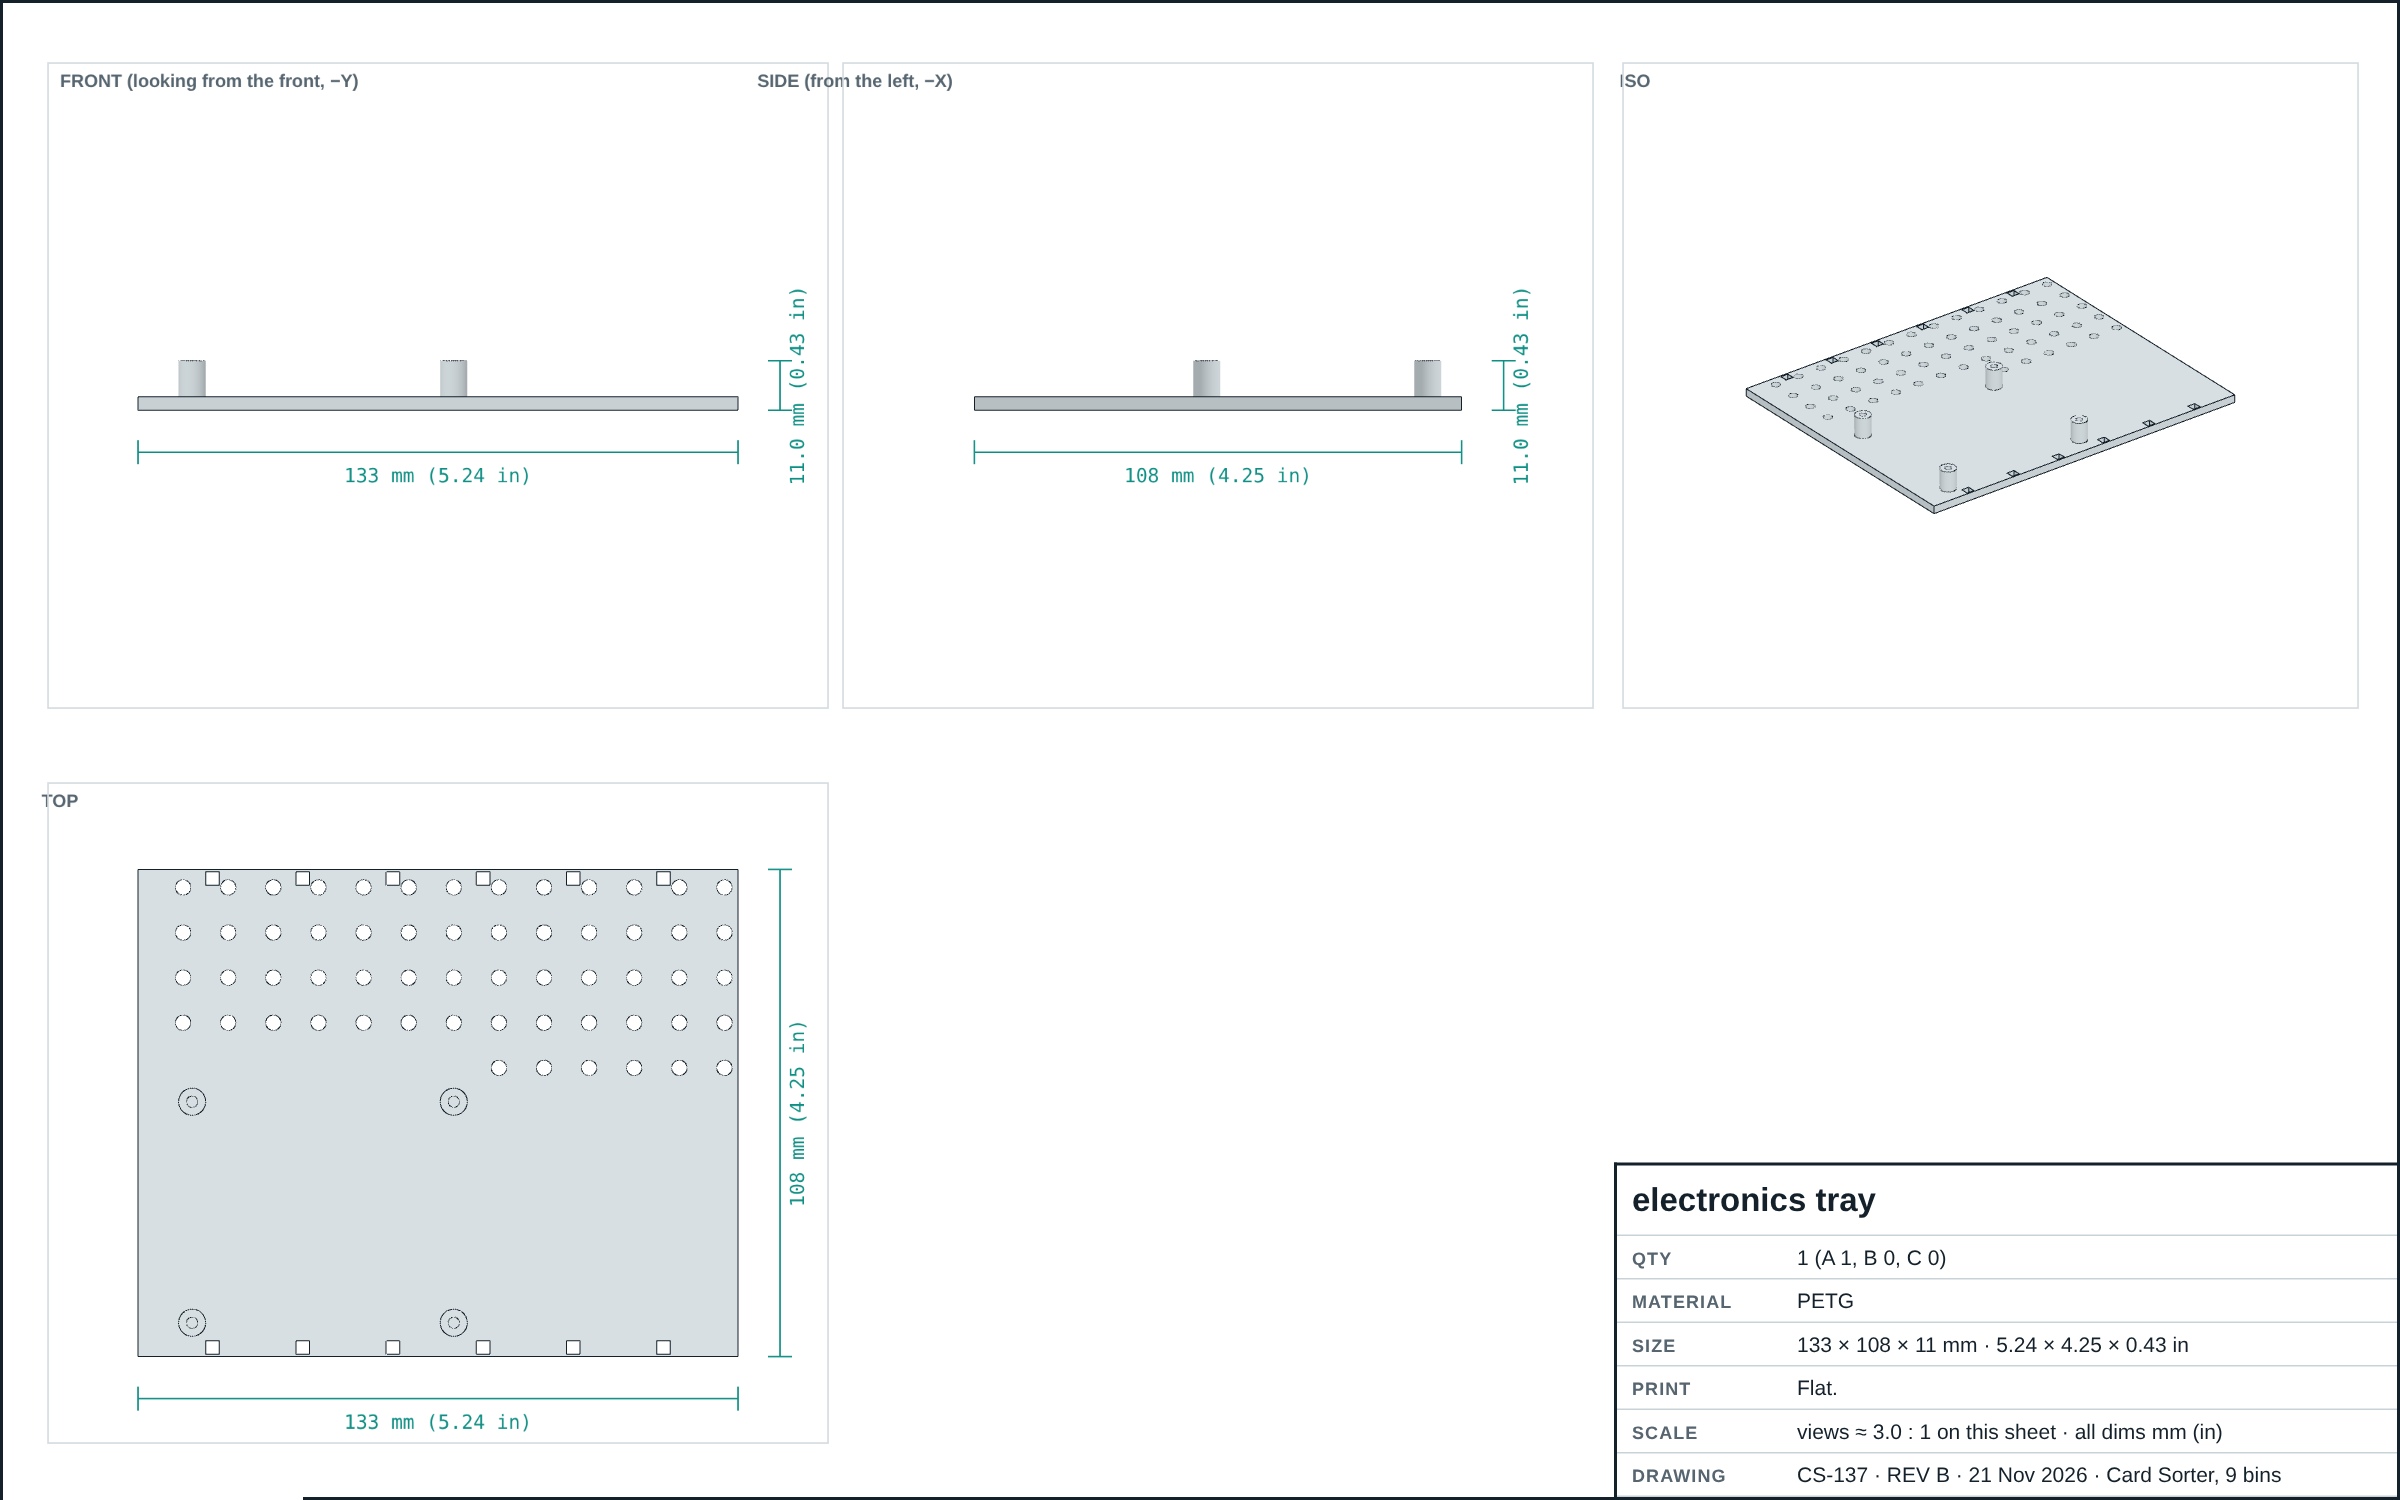
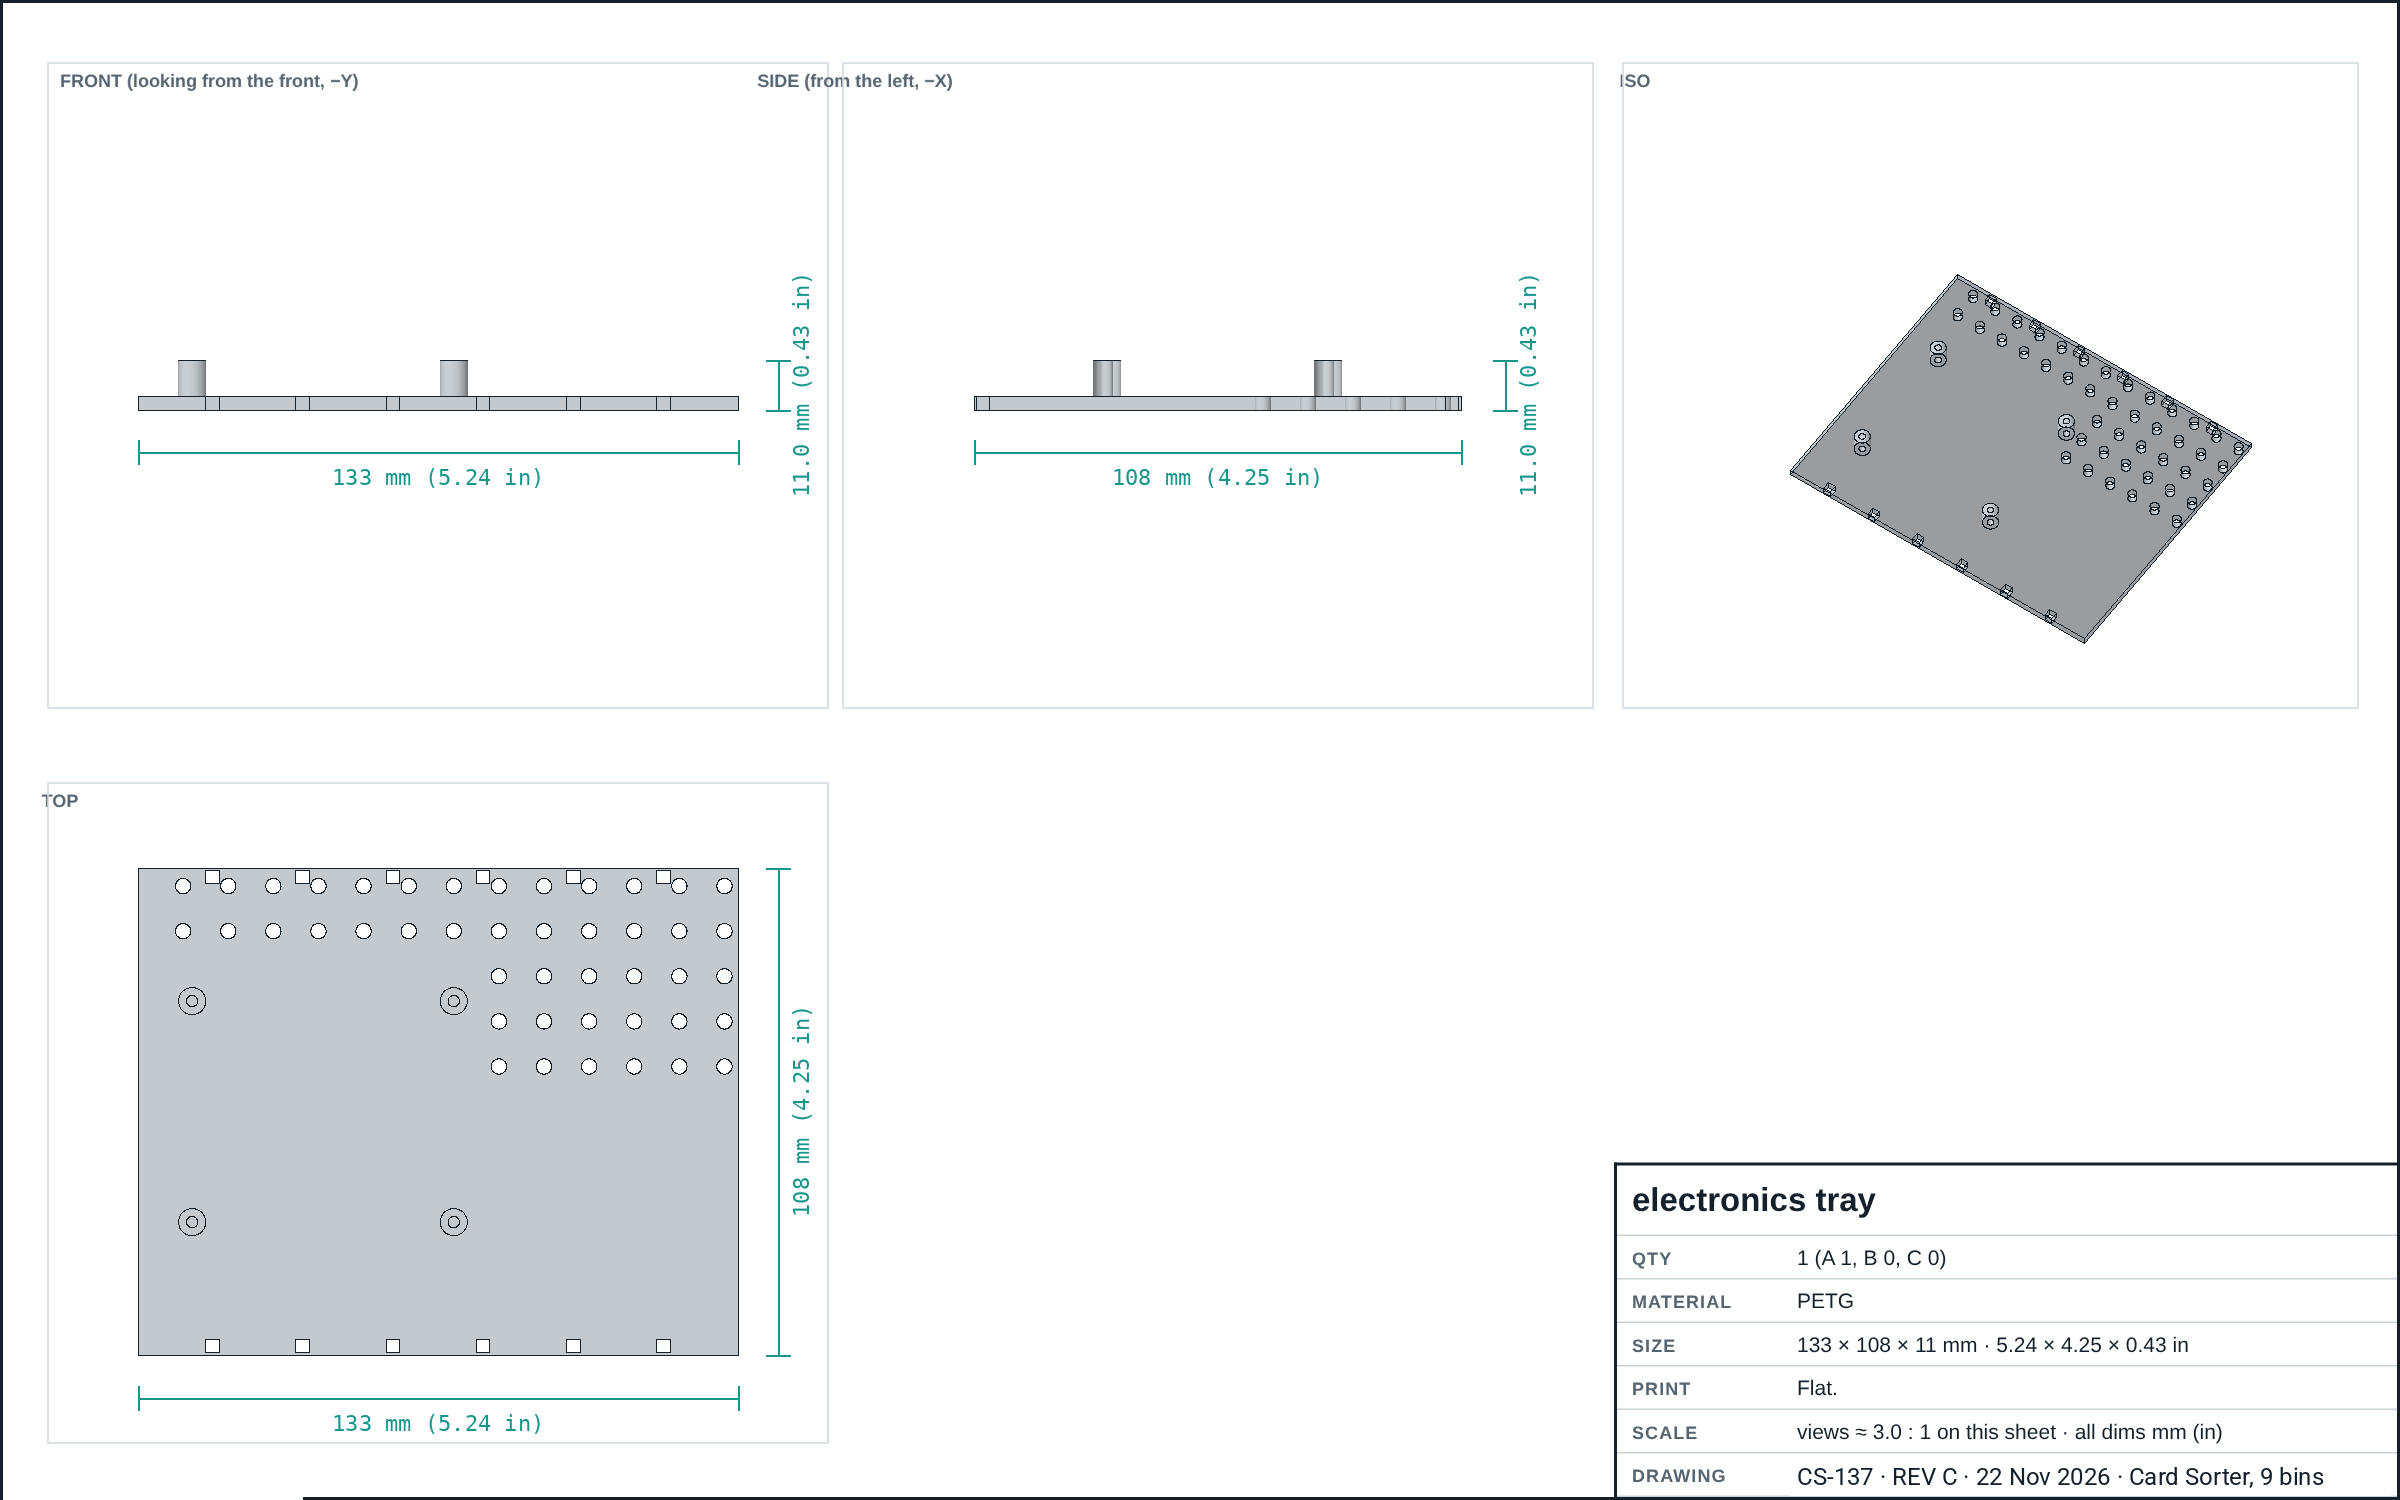
Fit report, wiring and tray sheet for SKR Pico moved back 22 mm
Claude-Session: https://claude.ai/code/session_01FgJd7uaUSCiZr7r8m5h9mH

diff --git a/hardware/cad/wiring.py b/hardware/cad/wiring.py
@@ -5,7 +5,7 @@ import math, os
 from sorter import *
 
 # ---- landmarks (machine coordinates, mm)
-SKR = (60.0, -22.0, 60.0)                         # SKR Pico on the electronics tray (bay under the hopper)
+SKR = (60.0, 0.0, 60.0)                           # SKR Pico on the electronics tray (bay under the hopper)
 CONV5 = screen_xf(CONV_X, 26.0, CONV_Z)            # 24 V -> 5 V USB-C converter, in the screen pod beside the Pi
 CONV6 = (11.0, 18.0, 105.0)                       # 24 V -> 6 V servo step-down, on the bay's left inner wall
 JUNC = (40.0, 40.0, 70.0)                         # bay junction: Pi I2C meets the 6 V pair -> the bin bus

diff --git a/hardware/cad/fitcheck.py b/hardware/cad/fitcheck.py
@@ -176,6 +176,7 @@ for i, n in enumerate(names):
     for m in names[i + 1:]:
         check(f"{n} vs {m}", bay[n], bay[m], 1.0)
 check("Bay boards vs bay cover", conv6, P["bay_cover"], 1.0)
+check("SKR Pico + plugs vs bay cover", skr, P["bay_cover"], 1.0, "its front plugs and cable bends must stay inside the base")
 check("SKR Pico + plugs vs roller shafts/pulleys", skr, shafts, 3.0)
 from sorter import CAM_CABLE_Z
 # --- PSU under the scanner

diff --git a/hardware/WIRING.md b/hardware/WIRING.md
@@ -7,24 +7,24 @@ Stage A = the 3-bin test build, B = bins 3-8 added later (bin 9's cables are the
 | Cable | From | To | Route | Run | Have / use | OK | Stage |
 |---|---|---|---|---|---|---|---|
 | Mains (IEC inlet -> PSU) | IEC inlet, back of scan module | PSU L / N / earth | inside the scan module | 95 mm (3.7 in) | 150 mm (5.9 in): the inlet's own pre-wired 18 AWG leads | yes | A |
-| 24 V -> SKR Pico | PSU +V / -V | SKR Pico VIN screw terminal | PSU -> pass-through -> bay | 129 mm (5.1 in) | 22 AWG red + black (your spools), cut to length | cut to length | A |
+| 24 V -> SKR Pico | PSU +V / -V | SKR Pico VIN screw terminal | PSU -> pass-through -> bay | 126 mm (5.0 in) | 22 AWG red + black (your spools), cut to length | cut to length | A |
 | 24 V -> 6 V step-down (servos) | PSU +V / -V | 6 V step-down (servos) red/black leads | PSU -> pass-through -> bay | 186 mm (7.3 in) | 22 AWG red + black (your spools), cut to length | cut to length | A |
 | 24 V -> 5 V USB-C converter (in the screen pod) | PSU +V / -V | converter red/black leads | PSU -> pass-through -> bay -> bay-cover slot -> hangs free with the Pi's loom -> pod notch | 298 mm (11.7 in) | 22 AWG red + black spliced onto the converter's leads (solder + heat-shrink), in the loom's braided sleeve | cut to length | A |
 | USB-C power (Pi) | 5 V USB-C converter (in the pod) | Pi 5 USB-C | inside the pod (coil the spare beside the converter) | 76 mm (3.0 in) | 280 mm (11.0 in): the converter's own 12 in (305 mm) lead | yes | A |
 | Camera ribbon | Pi 5 CAM/DISP 0 | HQ camera (connector facing left) | out the pod's back -> back across the gap above the conveyor -> up beside the hood (one long twist) -> under the L-rails -> through the slot straight into the camera | 337 mm (13.3 in) | 500 mm (19.7 in): Pi 5 camera cable, 500 mm (22-pin mini -> 15-pin standard) | yes | A |
 | Display ribbon + power | Pi 5 CAM/DISP 1 + pins 2/6 | Touch Display 2 | inside the pod | 60 mm (2.4 in) | 100 mm (3.9 in): the cables in the display box | yes | A |
-| UART to the motor board (TX, RX, GND) | Pi pins 8, 10, 6 | SKR Pico UART header | pod -> notch -> bay-cover slot -> tray | 264 mm (10.4 in) | 400 mm (15.7 in): female-female jumpers, 40 cm (in one black braided sleeve with the I2C pair) | yes | A |
+| UART to the motor board (TX, RX, GND) | Pi pins 8, 10, 6 | SKR Pico UART header | pod -> notch -> bay-cover slot -> tray | 272 mm (10.7 in) | 400 mm (15.7 in): female-female jumpers, 40 cm (in one black braided sleeve with the I2C pair) | yes | A |
 | I2C to the bay junction (SDA, SCL, GND) | Pi pins 3, 5, 9 | bay junction (joins the bin bus) | same loom | 310 mm (12.2 in) | 400 mm (15.7 in): female-female jumpers, 40 cm | yes | A |
 | Bin bus (6 V, GND, SDA, SCL) | 6 V step-down + bay junction | bin hub: PCA9685 V+/GND, 3.3 V regulator in, I2C in | bay -> back window -> back channel -> up into the hub's window | 674 mm (26.5 in) | 22 AWG: red 6 V, black GND, blue SDA, yellow SCL (twist SDA with GND and SCL with GND), cut to length | cut to length | A |
-| Feed motor | feeder base back wall (NEMA 17) | SKR Pico X driver | down the back of the base -> back window -> tray | 297 mm (11.7 in) | 1000 mm (39.4 in): the motor's own 1 m cable (coil the spare) | yes | A |
-| Track motor | end module back (NEMA 17) | SKR Pico Y driver | down the end module -> back channel -> back window -> tray | 1706 mm (67.2 in) | 2000 mm (78.7 in): its 1 m cable + a 1 m 4-pin stepper extension (BUY) | yes | A |
-| Card-clear sensor (TCRT5000) | under the floor at the feeder exit | SKR X-STOP (3.3 V, GND, signal) | inside the feeder base | 187 mm (7.4 in) | 300 mm (11.8 in): female-female jumpers, 30 cm | yes | A |
-| Belt-home sensor (TCRT5000) | under the scan module's back strip | SKR Y-STOP | out the back wall -> down -> back channel -> back window | 354 mm (13.9 in) | 500 mm (19.7 in): female-female jumpers, 50 cm | yes | A |
-| Tower-ID hall sensor 1 (A3144) | pocket in the hopper floor (leads down the 3 mm hole) | SKR Z-STOP signal + GND; 5 V from the probe header's 5 V pin | straight down into the bay | 164 mm (6.5 in) | 300 mm (11.8 in): female-female jumpers, 30 cm (the A3144 legs plug straight in; heat-shrink each leg) | yes | A |
-| Tower-ID hall sensor 2 (A3144) | pocket in the hopper floor (leads down the 3 mm hole) | SKR E0-STOP signal + GND; 5 V from the probe header's 5 V pin | straight down into the bay | 169 mm (6.7 in) | 300 mm (11.8 in): female-female jumpers, 30 cm (the A3144 legs plug straight in; heat-shrink each leg) | yes | A |
-| Hood LED strips (2 x COB channels) | SKR HE0 (24 V switched) | COB strips on the front + back ledges, joined inside the hood | tray -> back window -> back channel -> up the back of the scan module -> hood's LED hole | 751 mm (29.6 in) | 22 AWG red + black (+ 15 cm jumper to the front strip) | cut to length | A |
-| Sheen LED (50 mm of COB strip) | SKR FAN2 (jumper on 24 V) | sheen_cap on the hood's back wall | with the LED pair, last 7 cm outside the hood back | 664 mm (26.1 in) | 22 AWG white + green pair | cut to length | A |
-| Bay fan (30 mm) | bay cover | SKR FAN3 (24 V fan) | inside the bay | 67 mm (2.6 in) | 150 mm (5.9 in): fan's own leads | yes | A |
+| Feed motor | feeder base back wall (NEMA 17) | SKR Pico X driver | down the back of the base -> back window -> tray | 275 mm (10.8 in) | 1000 mm (39.4 in): the motor's own 1 m cable (coil the spare) | yes | A |
+| Track motor | end module back (NEMA 17) | SKR Pico Y driver | down the end module -> back channel -> back window -> tray | 1684 mm (66.3 in) | 2000 mm (78.7 in): its 1 m cable + a 1 m 4-pin stepper extension (BUY) | yes | A |
+| Card-clear sensor (TCRT5000) | under the floor at the feeder exit | SKR X-STOP (3.3 V, GND, signal) | inside the feeder base | 190 mm (7.5 in) | 300 mm (11.8 in): female-female jumpers, 30 cm | yes | A |
+| Belt-home sensor (TCRT5000) | under the scan module's back strip | SKR Y-STOP | out the back wall -> down -> back channel -> back window | 332 mm (13.1 in) | 500 mm (19.7 in): female-female jumpers, 50 cm | yes | A |
+| Tower-ID hall sensor 1 (A3144) | pocket in the hopper floor (leads down the 3 mm hole) | SKR Z-STOP signal + GND; 5 V from the probe header's 5 V pin | straight down into the bay | 163 mm (6.4 in) | 300 mm (11.8 in): female-female jumpers, 30 cm (the A3144 legs plug straight in; heat-shrink each leg) | yes | A |
+| Tower-ID hall sensor 2 (A3144) | pocket in the hopper floor (leads down the 3 mm hole) | SKR E0-STOP signal + GND; 5 V from the probe header's 5 V pin | straight down into the bay | 169 mm (6.6 in) | 300 mm (11.8 in): female-female jumpers, 30 cm (the A3144 legs plug straight in; heat-shrink each leg) | yes | A |
+| Hood LED strips (2 x COB channels) | SKR HE0 (24 V switched) | COB strips on the front + back ledges, joined inside the hood | tray -> back window -> back channel -> up the back of the scan module -> hood's LED hole | 730 mm (28.7 in) | 22 AWG red + black (+ 15 cm jumper to the front strip) | cut to length | A |
+| Sheen LED (50 mm of COB strip) | SKR FAN2 (jumper on 24 V) | sheen_cap on the hood's back wall | with the LED pair, last 7 cm outside the hood back | 643 mm (25.3 in) | 22 AWG white + green pair | cut to length | A |
+| Bay fan (30 mm) | bay cover | SKR FAN3 (24 V fan) | inside the bay | 81 mm (3.2 in) | 150 mm (5.9 in): fan's own leads | yes | A |
 | Door servo, bin 1 | inside bin module 1, under the back strip | PCA9685 channel 0 | down through the module's window -> back channel -> hub | 322 mm (12.7 in) | 550 mm (21.7 in): servo's 25 cm lead + 30 cm servo extension | yes | A |
 | Beam emitter, bin 1 | back pocket at the bin mouth | 3.3 V + GND (hub) | in through its lead slot -> window -> channel -> hub | 314 mm (12.4 in) | 550 mm (21.7 in): its 25 cm leads + 30 cm servo extension (Dupont crimped on the leads) | yes | A |
 | Beam receiver, bin 1 | front pocket at the bin mouth | MCP23017 GPA0 + 3.3 V/GND (hub) | in through its lead slot -> under the front strip -> along the tie bar -> window -> channel -> hub | 552 mm (21.7 in) | 750 mm (29.5 in): its 25 cm leads + 50 cm servo extension (Dupont crimped on the leads) | yes | A |
